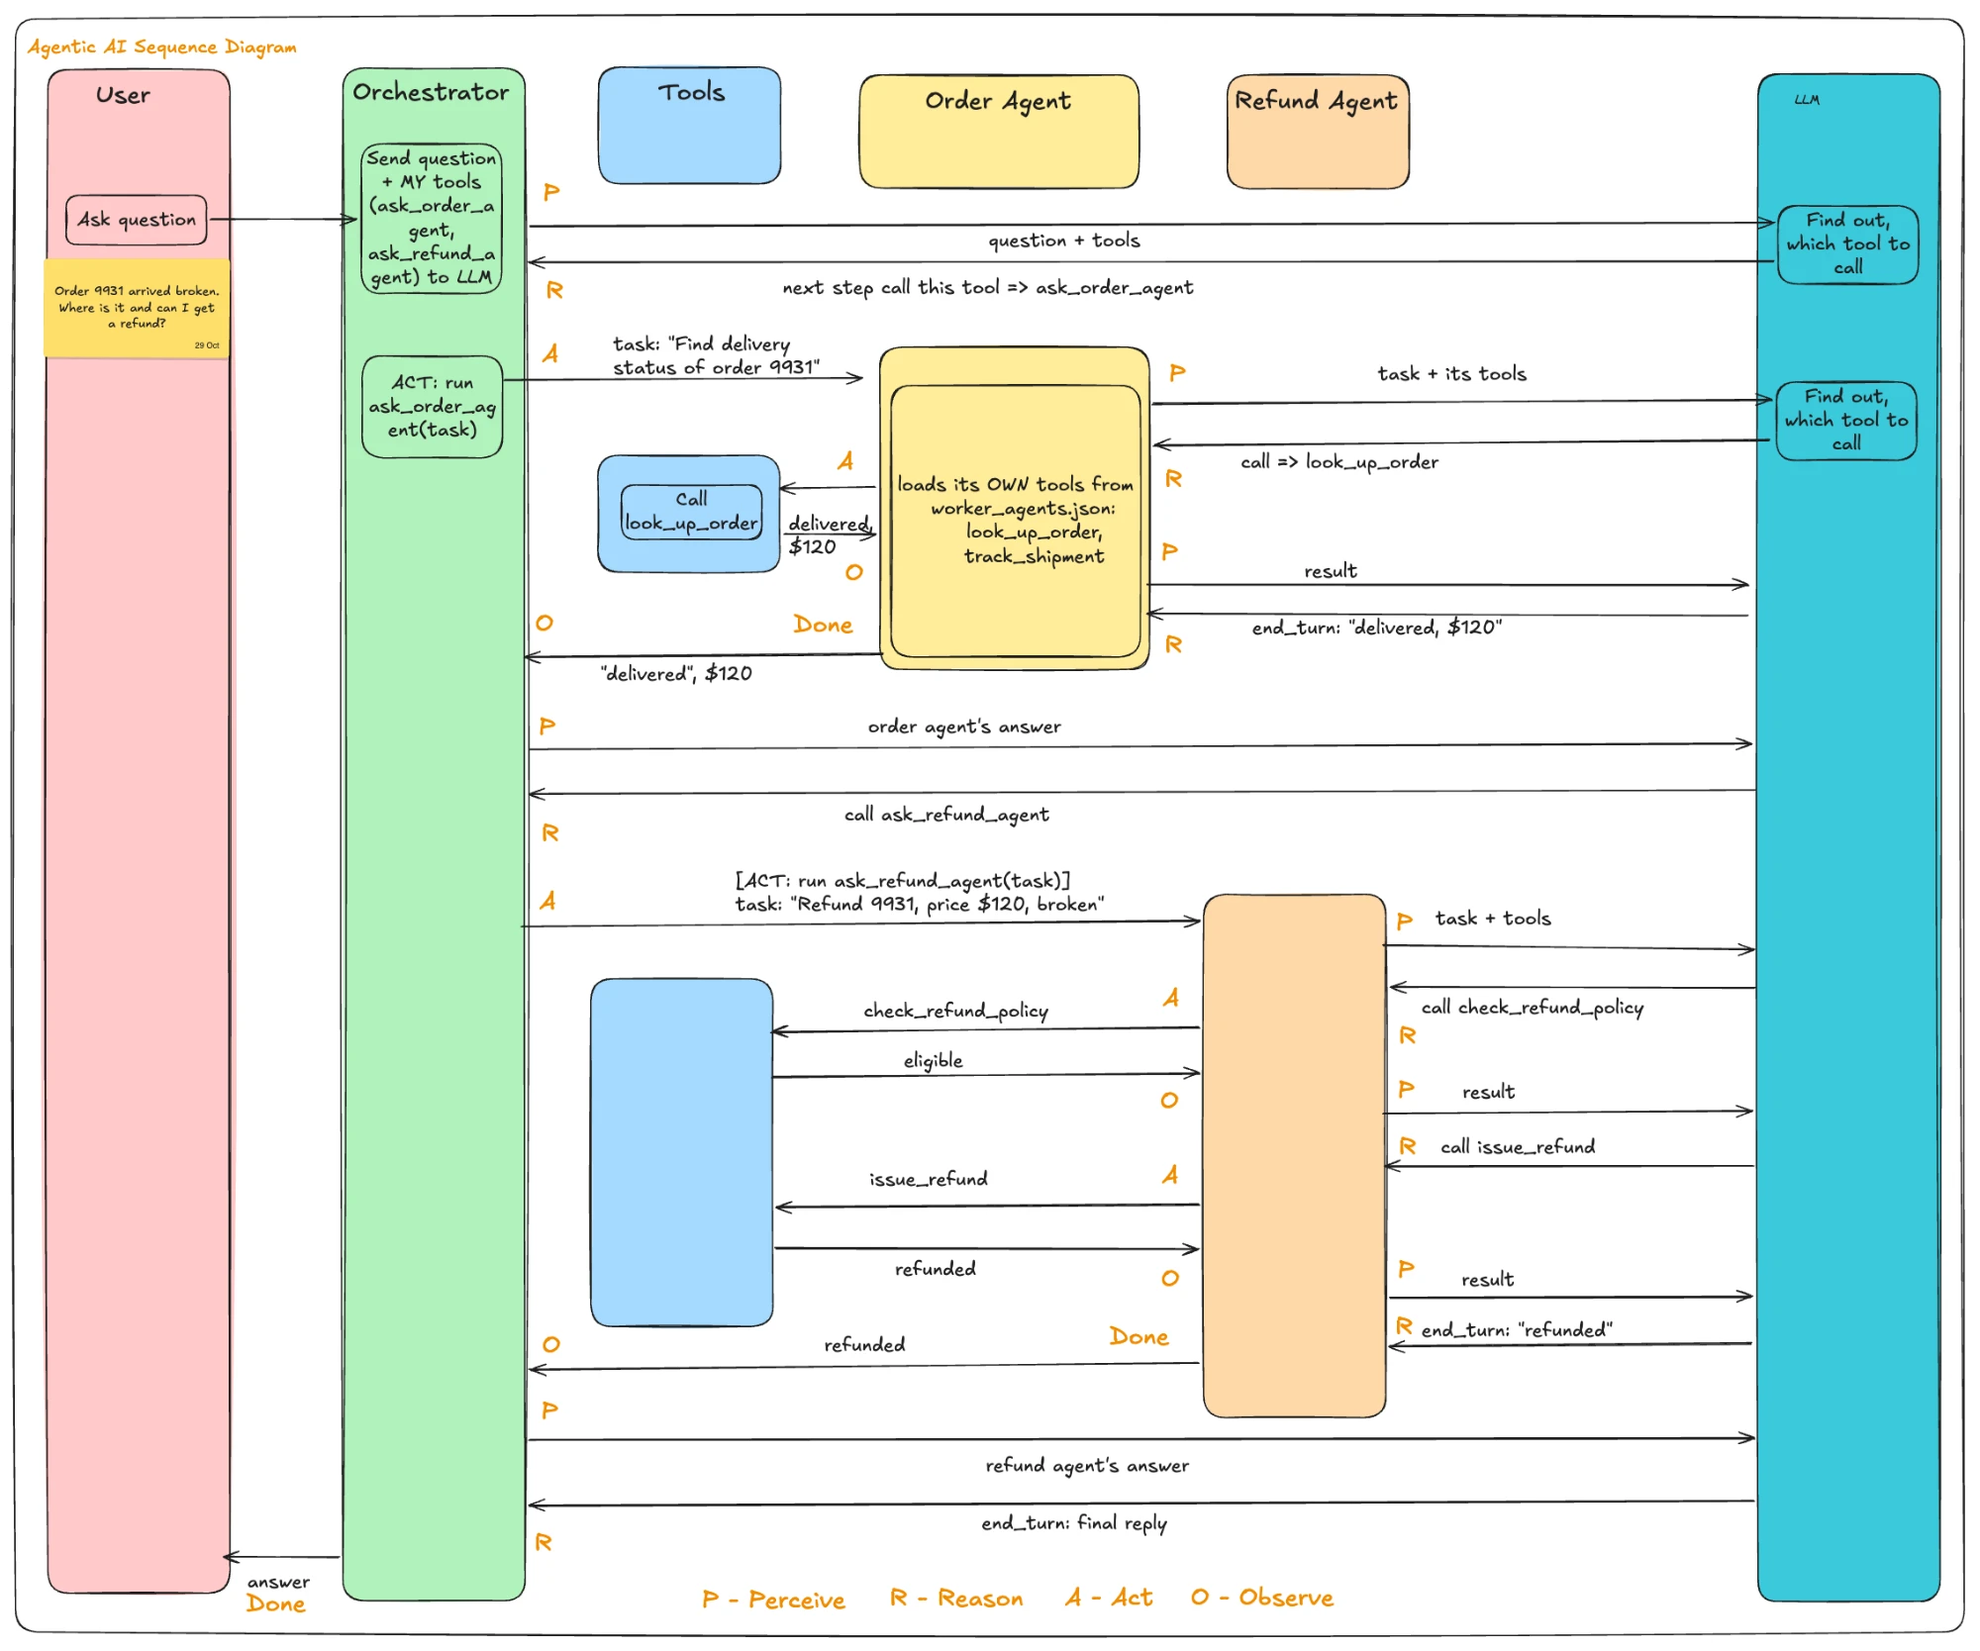
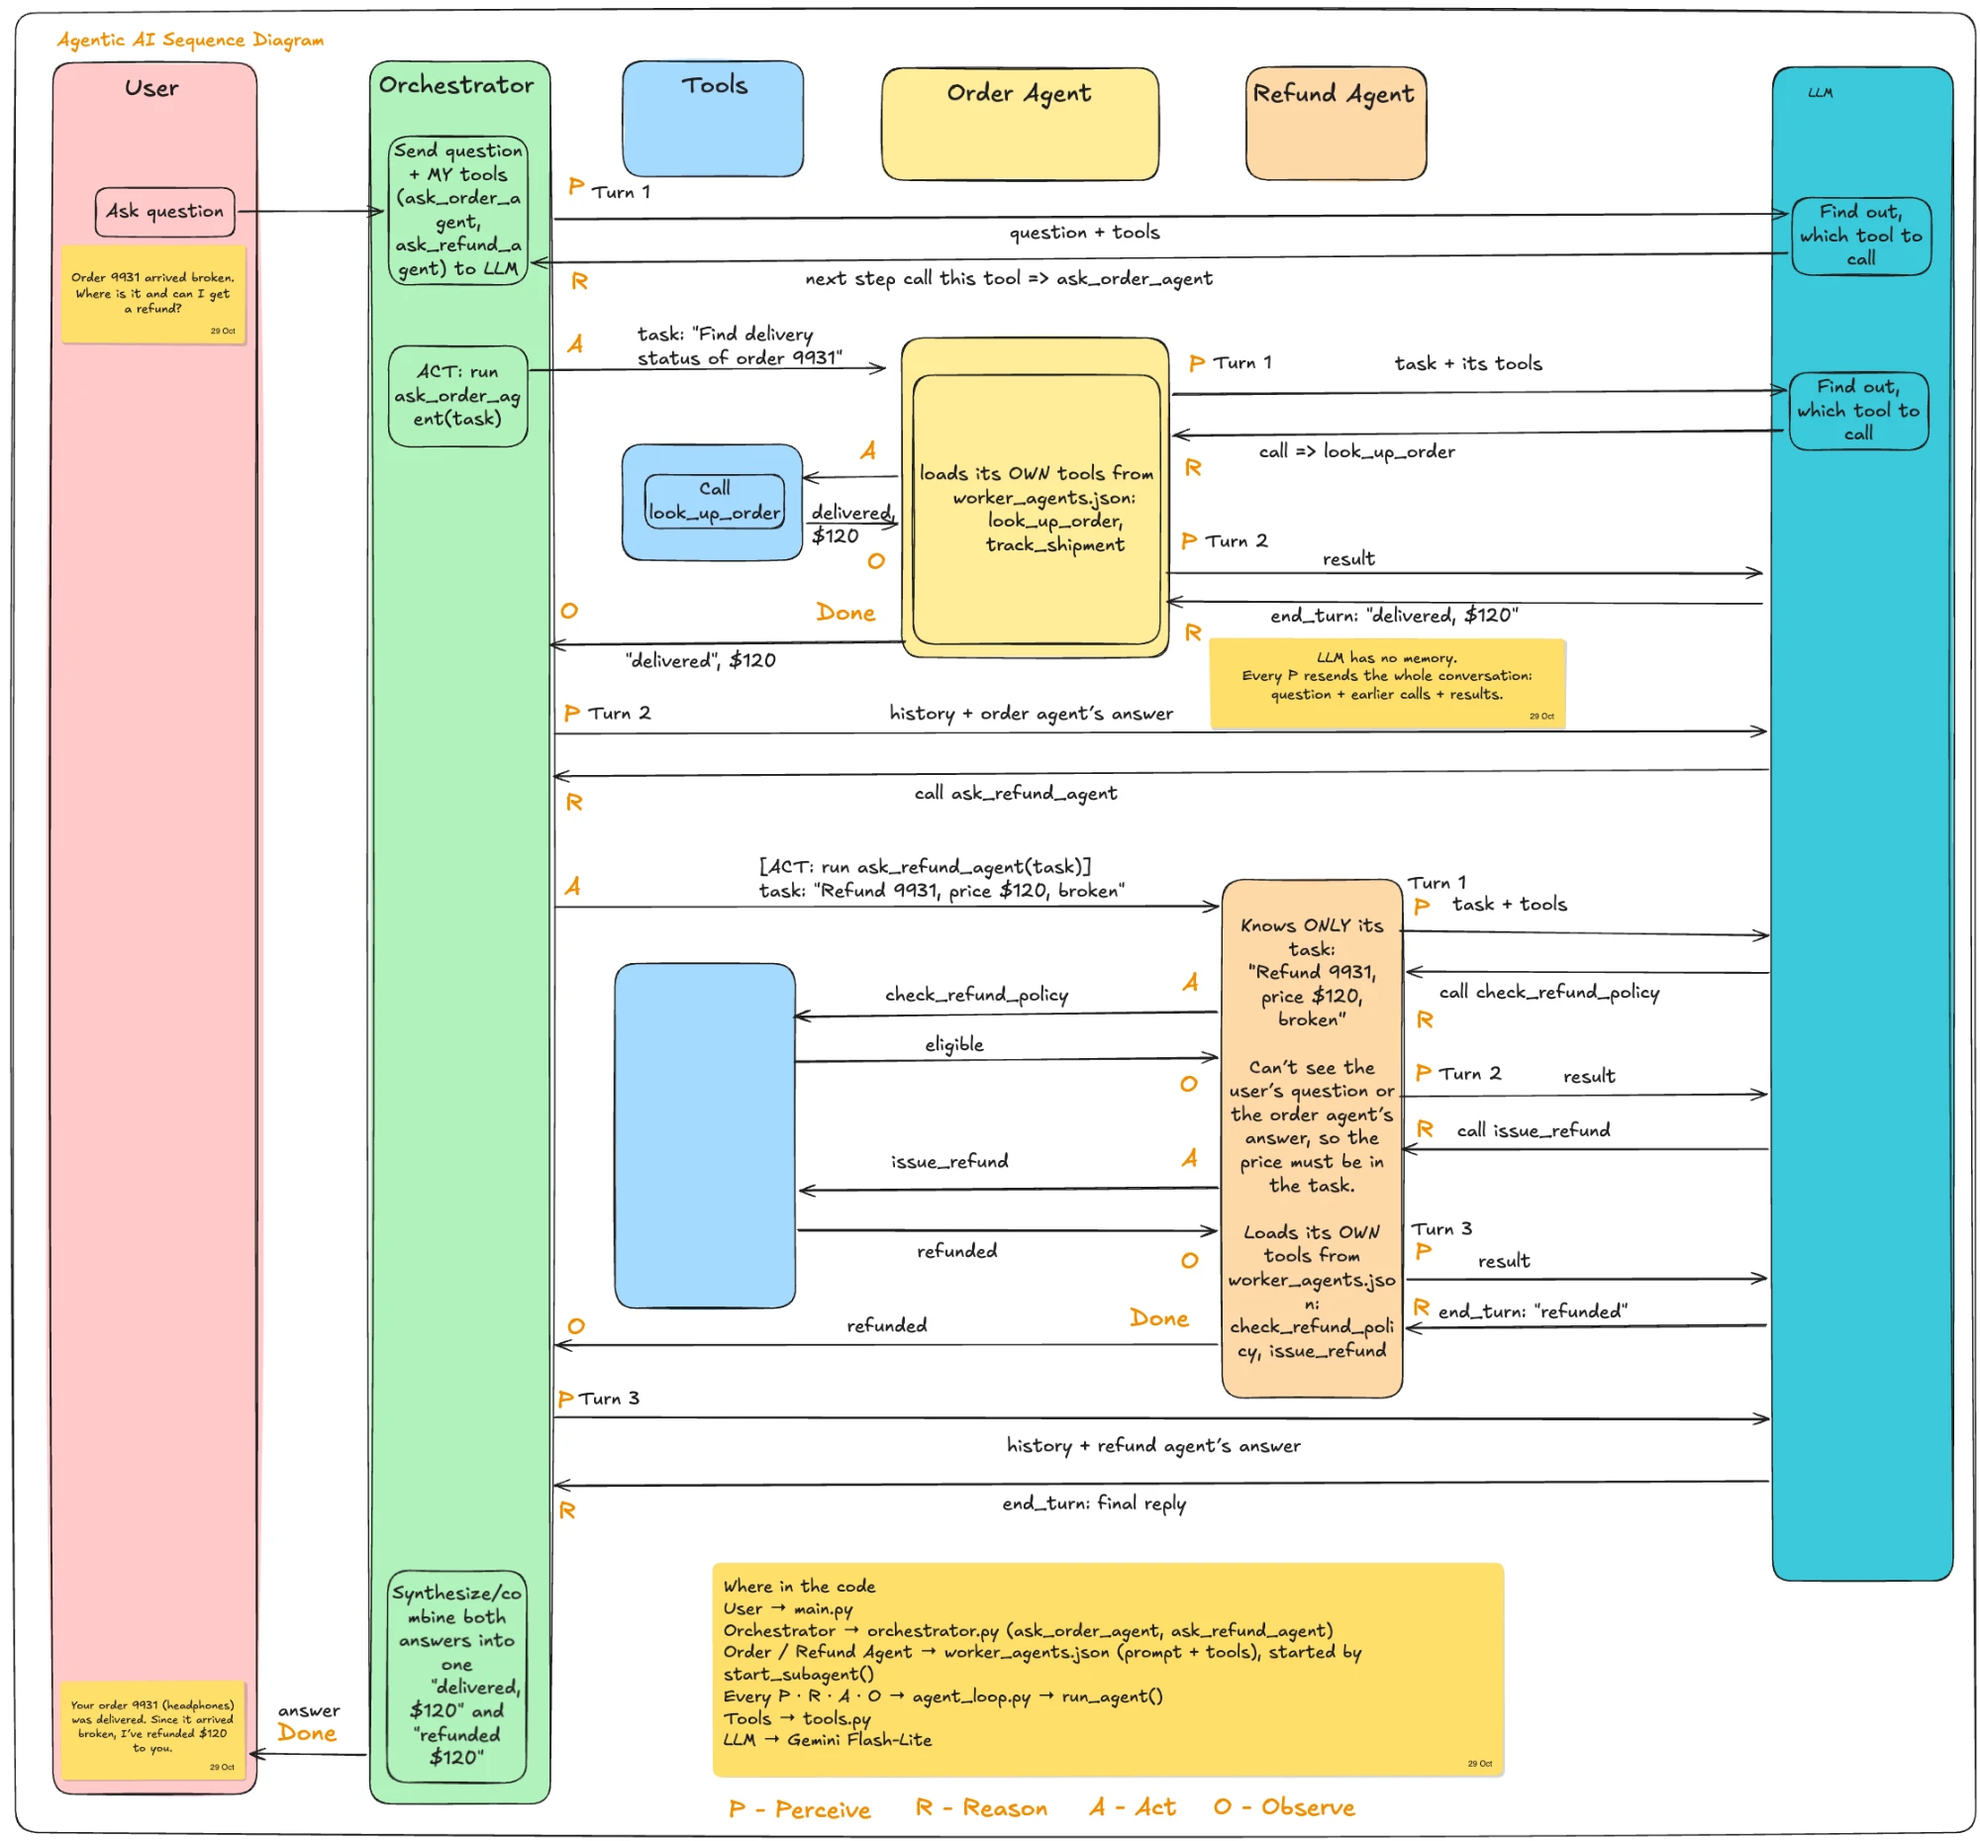
Update sequence diagram with turns, notes, synthesize step and code legend

diff --git a/README.md b/README.md
@@ -81,6 +81,8 @@ How to read it:
 - A subagent starts with **only its task** and loads its **own tools** from `worker_agents.json`.
 - A subagent's `end_turn` answer comes back to the orchestrator as a tool result.
 - The orange letters mark each agent's loop steps: **P**erceive (send to the LLM), **R**eason (the LLM's decision comes back), **A**ct (call a tool or subagent), **O**bserve (the result comes back), and **Done** at `end_turn`. They sit on the side of the agent whose loop it is; the LLM and Tools have no steps of their own. A subagent's **Done** is the orchestrator's **O**.
+- **Turn N** marks the start of each loop turn; each agent loops a different number of times (orchestrator 3, order agent 2, refund agent 3).
+- Sticky notes call out the key ideas: the question and final answer, "LLM has no memory" (every **P** resends the whole history), what the refund agent can and can't see, the orchestrator's **synthesize** step, and where each part lives in the code.
 - **Facts move only when passed explicitly**: `$120` goes look_up_order → order agent's answer → orchestrator → refund task.
 
 **The same flow, through the code:**
